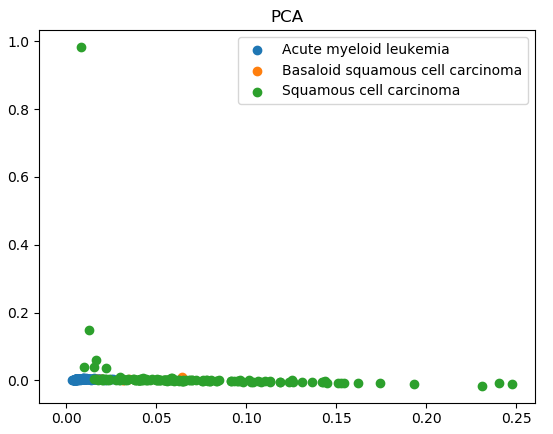
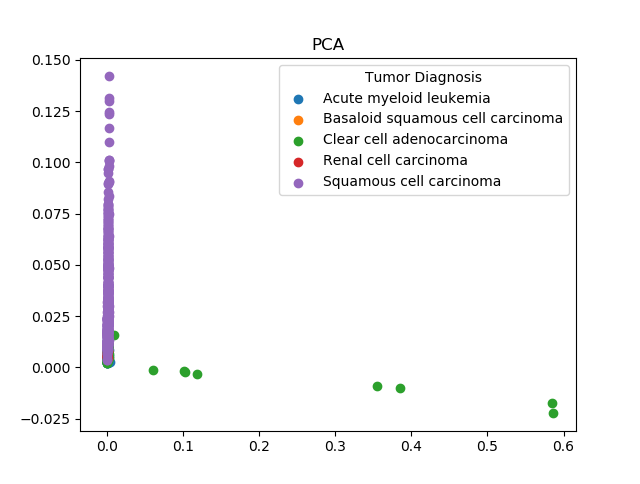
Update visualizations to use entire dataset

diff --git a/visualize.py b/visualize.py
@@ -8,8 +8,6 @@ num_points = 300
 # load gene expression data as a numpy array
 print("Loading data...")
 X = np.genfromtxt("data/processed-data/gene-expression.csv", delimiter=",")
-X = X[:num_points]
-print("X head:", X[:5, :5])
 print("X shape:", X.shape)
 
 # embed using t-SNE
@@ -24,21 +22,21 @@ pca_components = fit.components_
 
 # load the diagnosis labels
 labels = np.genfromtxt("data/processed-data/ordered-diagnoses.csv", delimiter=",", dtype=str)
-labels = labels[:num_points]
 
 # create the plots
 fig, ax = plt.subplots()
 for label in np.unique(labels):
-  ix = np.where(labels == label)
-  ax.scatter(X_embedded.T[0][ix], X_embedded.T[1][ix], label=label)
-ax.legend()
+  print("graphing label", label)
+  i = np.where(labels == label)
+  ax.scatter(X_embedded.T[0][i], X_embedded.T[1][i], label=label)
+ax.legend(title="Tumor Diagnosis")
 plt.title("t-SNE")
 plt.show()
 
 fig, ax = plt.subplots()
 for label in np.unique(labels):
-  ix = np.where(labels == label)
-  ax.scatter(pca_components.T[0][ix], pca_components.T[1][ix], label=label)
-ax.legend()
+  i = np.where(labels == label)
+  ax.scatter(pca_components[0][i], pca_components[1][i], label=label)
+ax.legend(title="Tumor Diagnosis")
 plt.title("PCA")
 plt.show()

diff --git a/process_data.py b/process_data.py
@@ -5,7 +5,7 @@ import os
 import pandas as pd
 import time
 
-project_names = ["TCGA-LAML", "TCGA-HNSC"]
+project_names = ["TCGA-LAML", "TCGA-HNSC", "TCGA-KIRC"]
 
 
 def combine_gene_expression_files():
@@ -51,5 +51,7 @@ def process_metadata():
   np.savetxt("data/processed-data/ordered-diagnoses.csv", ordered_diagnoses.T, delimiter=",", fmt='%s')
 
 
+# TODO: make another function that filters out labels with small frequencies
+
 combine_gene_expression_files()
-#process_metadata()
+process_metadata()
